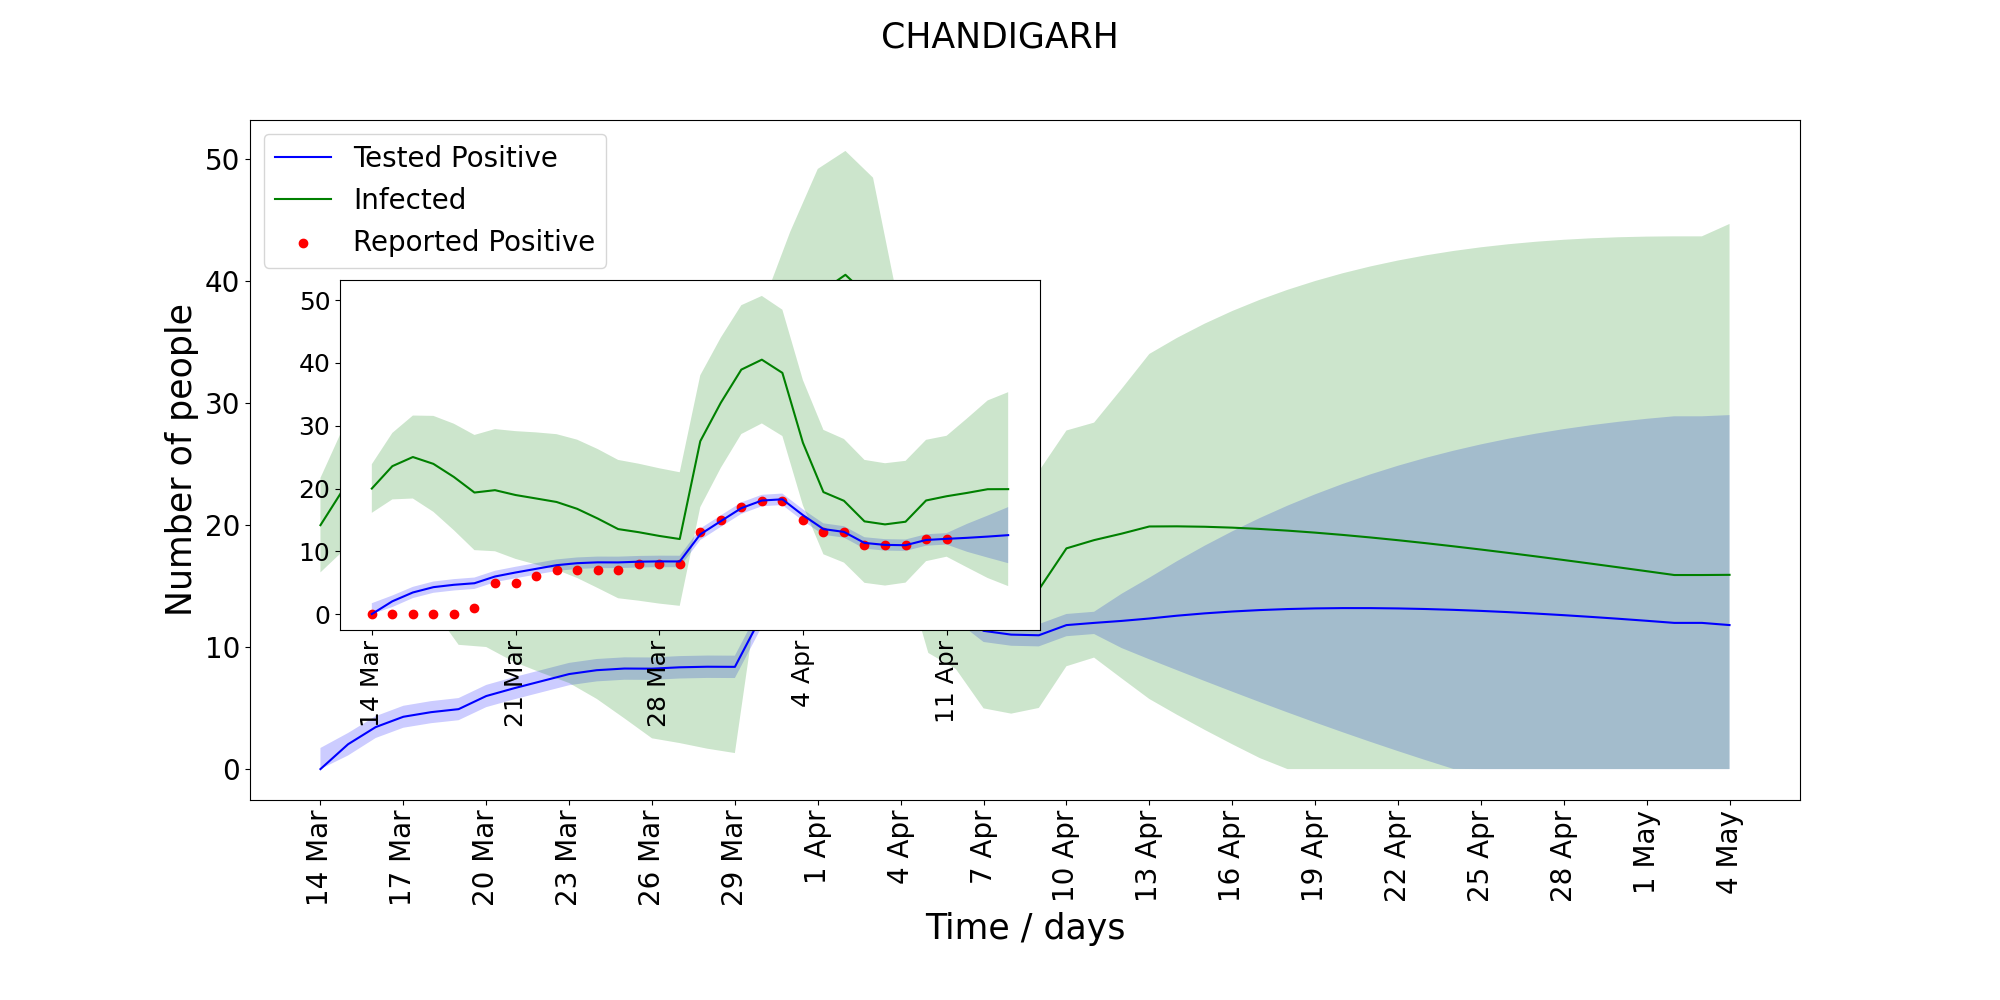
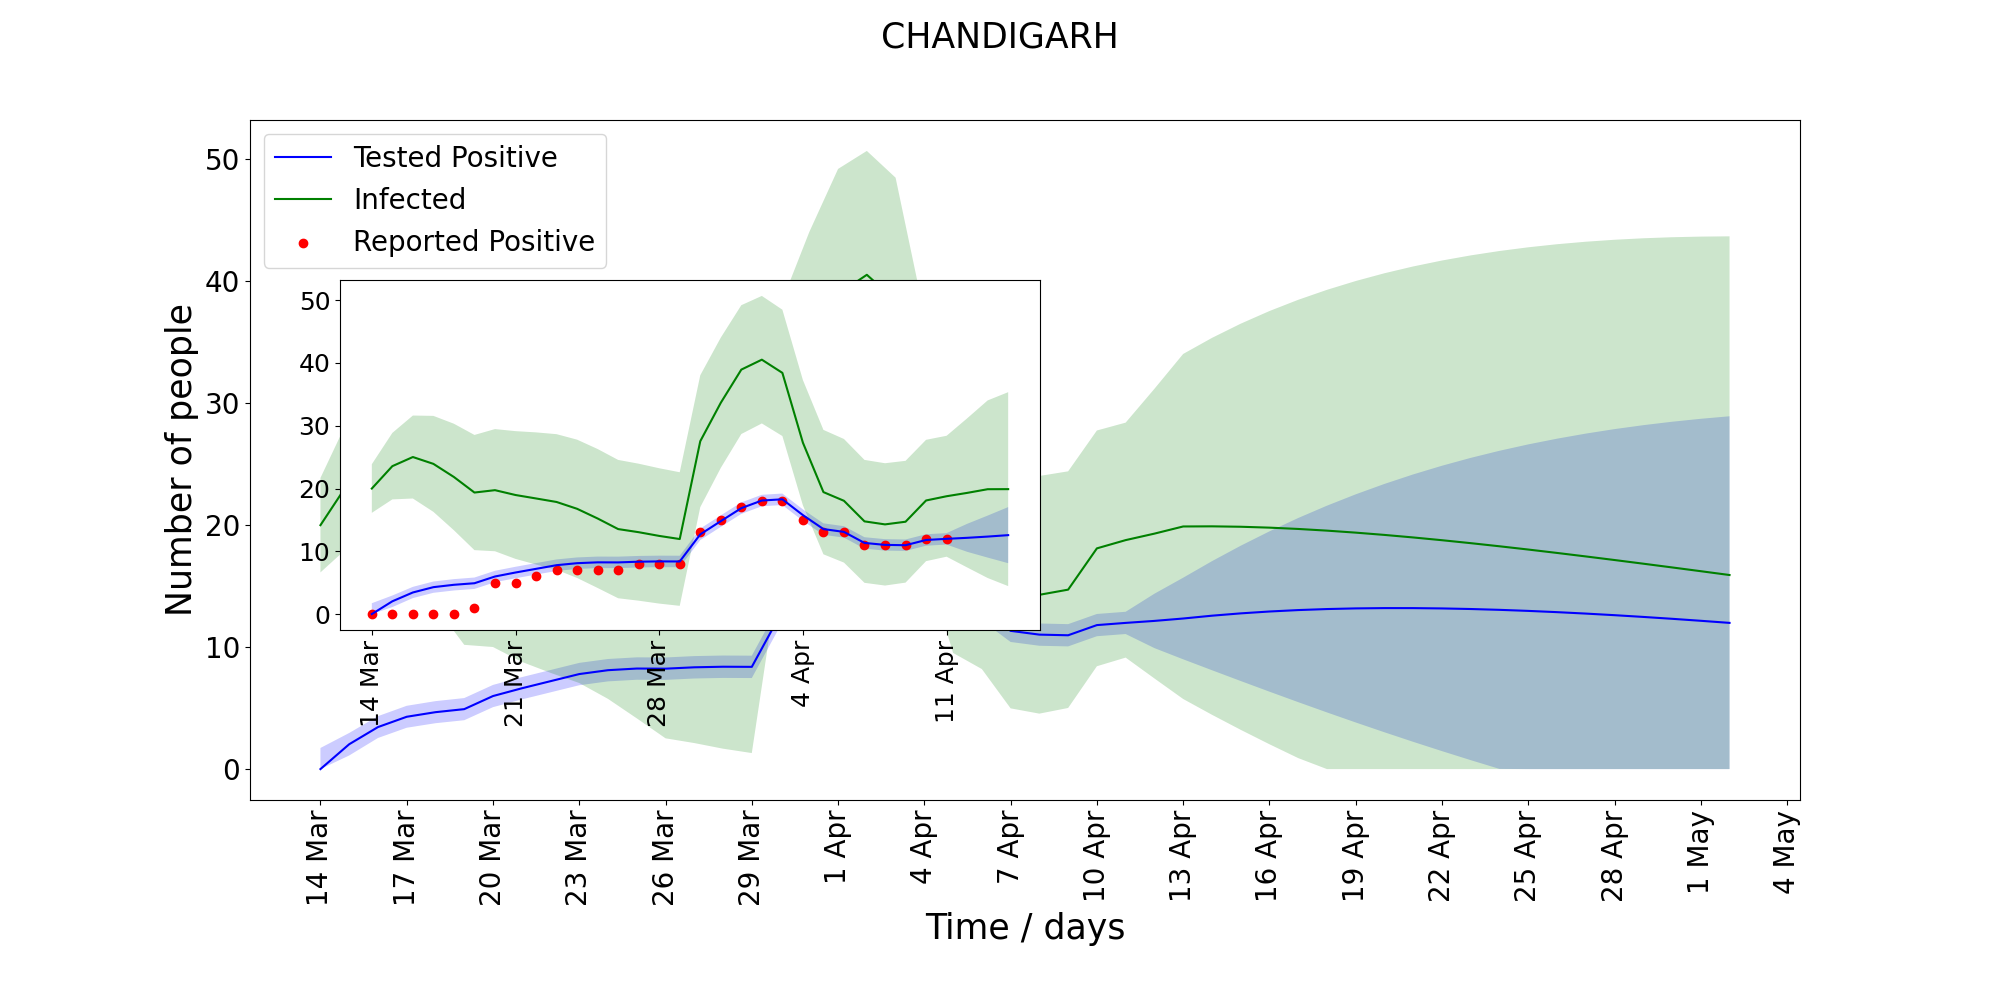
Changed end date

diff --git a/Model.py b/Model.py
@@ -75,7 +75,7 @@ class IndiaModel () :
     def setStateModels (self):
         self.models = []
         self.links = []
-        self.lockdownEnd = Date('1 Jun')
+        self.lockdownEnd = Date('3 May')
         for idx, state in enumerate(STATES) : 
             datum = self.data[idx]
 
